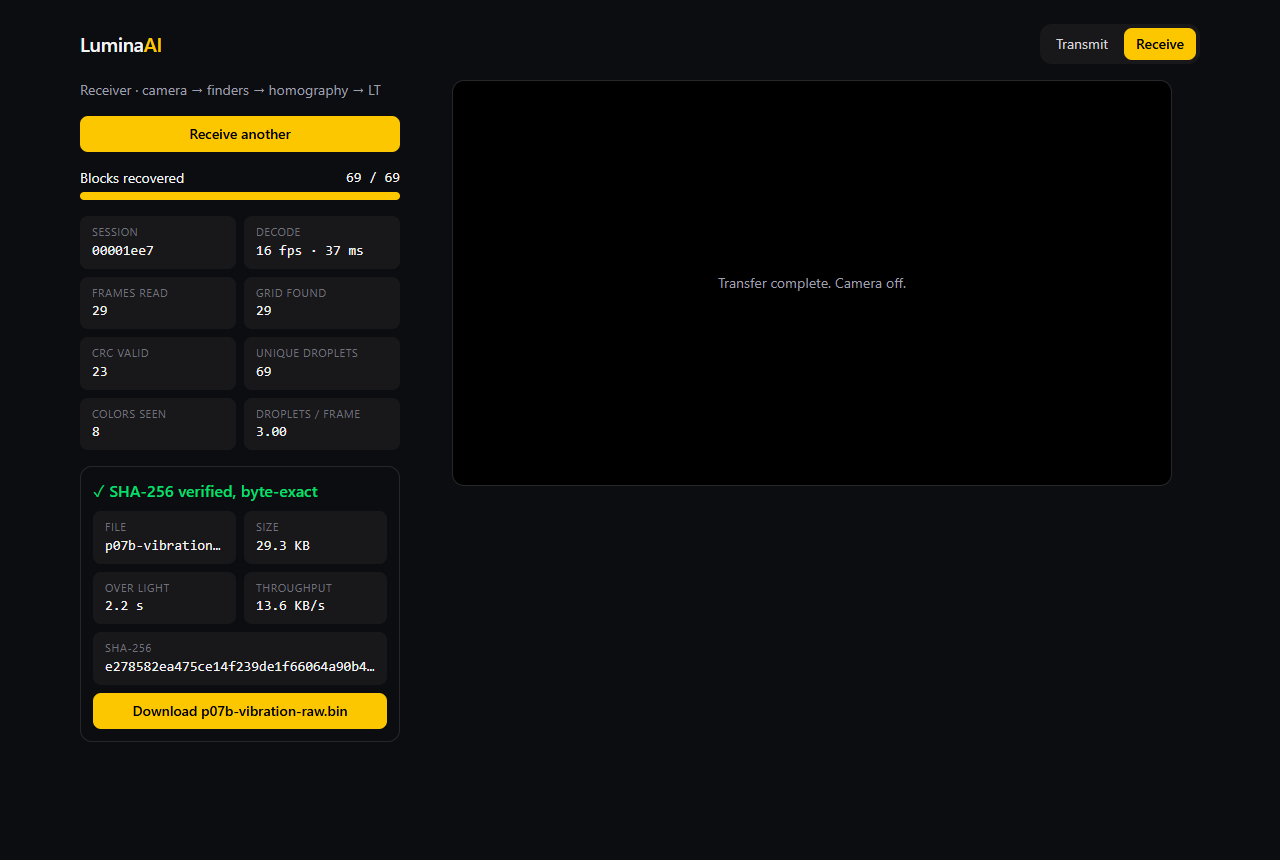
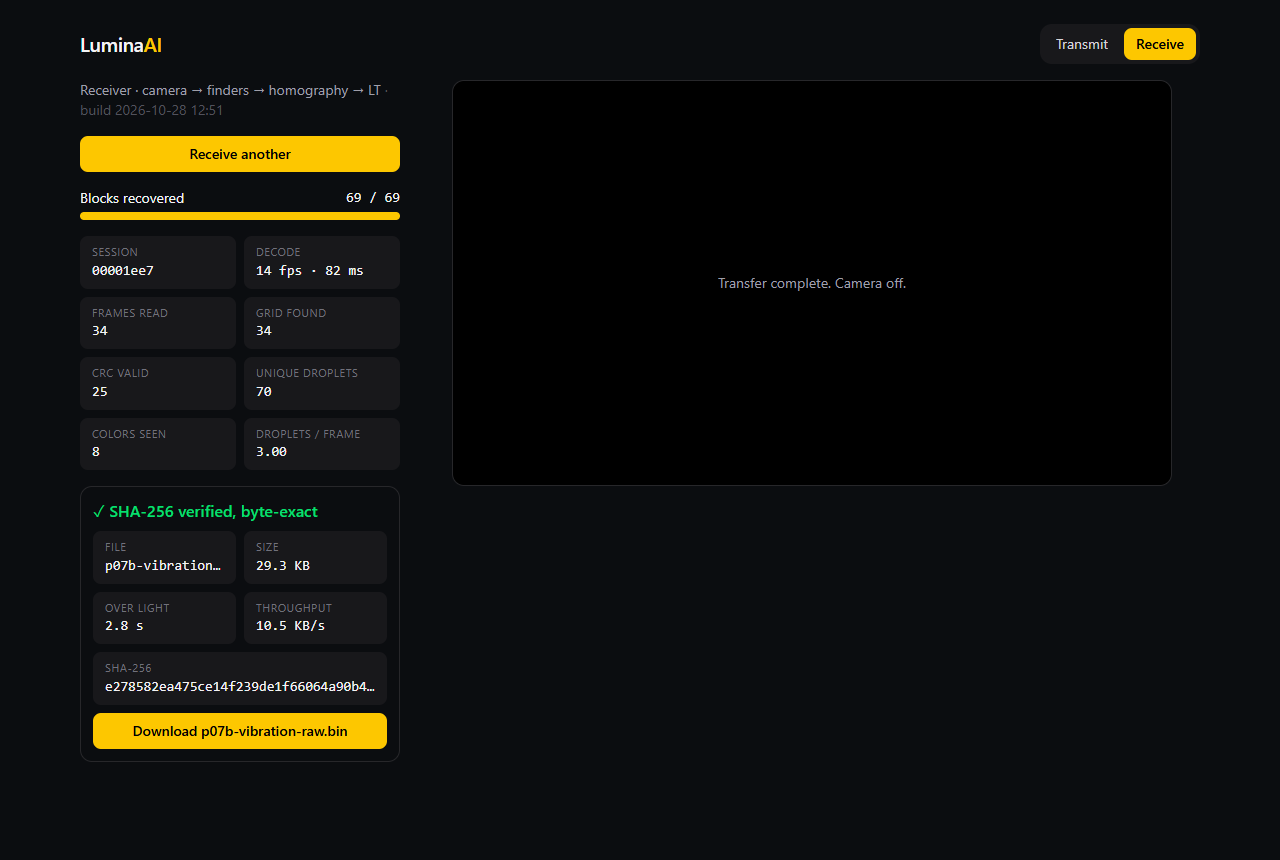
Receiver: surface stale-build and decoder errors instead of going silent
A page cached across a deploy points at a worker file Pages no longer serves,
and a throw in the worker left the page waiting forever. The worker now
always answers, worker load errors show a reload button, and both views
show a build id.

Changed region(s): [[0.0625, 0.1209, 0.3125, 0.514], [0.0625, 0.5442, 0.3125, 0.8767]]

diff --git a/apps/web/src/components/ReceiveView.tsx b/apps/web/src/components/ReceiveView.tsx
@@ -102,8 +102,17 @@ export function ReceiveView() {
           if (overlay.current) drawQuad(overlay.current, null, false);
           stop();
         } else {
+          busy = false;
           setError(msg.message);
         }
+      };
+      // A page left open across a deploy points at a worker file Pages no
+      // longer serves; without this the receiver just sits silent.
+      worker.onerror = (e) => {
+        e.preventDefault();
+        setError('STALE');
+        stop();
+        setPhase('idle');
       };
 
       const schedule = () =>
@@ -154,7 +163,9 @@ export function ReceiveView() {
   return (
     <div className="flex flex-col gap-6 lg:flex-row">
       <aside className="flex w-full flex-col gap-4 lg:w-80 lg:shrink-0">
-        <p className="text-sm text-zinc-400">Receiver · camera → finders → homography → LT</p>
+        <p className="text-sm text-zinc-400">
+          Receiver · camera → finders → homography → LT <span className="text-zinc-600">· build {__BUILD_ID__}</span>
+        </p>
 
         {!camera && (
           <p className="rounded-lg bg-red-950 p-3 text-sm text-red-300">
@@ -198,7 +209,16 @@ export function ReceiveView() {
           </select>
         )}
 
-        {error && <p className="text-sm text-red-400">{error}</p>}
+        {error === 'STALE' ? (
+          <div className="flex flex-col gap-2 rounded-lg bg-red-950 p-3 text-sm text-red-300" data-testid="rx-stale">
+            The receiver code failed to load: this page is probably an old cached version.
+            <button className="rounded-md bg-red-800 px-3 py-1.5 text-white" onClick={() => location.reload()}>
+              Reload to update
+            </button>
+          </div>
+        ) : (
+          error && <p className="text-sm text-red-400">{error}</p>
+        )}
 
         {stats && (
           <>

diff --git a/apps/web/src/lib/receiver.worker.ts b/apps/web/src/lib/receiver.worker.ts
@@ -21,7 +21,15 @@ ctx.onmessage = async ({ data: msg }) => {
     return;
   }
   const t0 = performance.now();
-  const { report, payload } = rx.push({ width: msg.width, height: msg.height, data: new Uint8ClampedArray(msg.buffer) });
+  let result: ReturnType<ReceiverSession['push']>;
+  try {
+    result = rx.push({ width: msg.width, height: msg.height, data: new Uint8ClampedArray(msg.buffer) });
+  } catch (e) {
+    // Always answer, or the page waits for this frame forever.
+    ctx.postMessage({ type: 'error', message: `Decoder error: ${e instanceof Error ? e.message : String(e)}` });
+    return;
+  }
+  const { report, payload } = result;
   ctx.postMessage({ type: 'frame', report, stats: rx.stats(), ms: Math.round(performance.now() - t0) });
   if (!payload) return;
   try {

diff --git a/apps/web/src/components/TransmitView.tsx b/apps/web/src/components/TransmitView.tsx
@@ -99,7 +99,7 @@ export function TransmitView() {
   return (
     <div className="flex flex-col gap-6 lg:flex-row">
       <aside className="flex w-full flex-col gap-4 lg:w-80 lg:shrink-0">
-        <p className="text-sm text-zinc-400">Transmitter · raw mode · {colors}-color</p>
+        <p className="text-sm text-zinc-400">Transmitter · raw mode · {colors}-color <span className="text-zinc-600">· build {__BUILD_ID__}</span></p>
 
         <label
           className="flex cursor-pointer flex-col items-center gap-1 rounded-xl border border-dashed border-zinc-700 px-4 py-6 text-center hover:border-yellow-400"

diff --git a/apps/web/vite.config.ts b/apps/web/vite.config.ts
@@ -10,6 +10,8 @@ export default defineConfig(({ mode }) => ({
   // GitHub Pages serves the app under /<repo>/; the deploy workflow sets BASE.
   base: process.env.BASE ?? '/',
   worker: { format: 'es' },
+  // Shown in the UI, so a tablet running a stale cached build is easy to spot.
+  define: { __BUILD_ID__: JSON.stringify(new Date().toISOString().slice(0, 16).replace('T', ' ')) },
   plugins: [
     mode === 'lan' && basicSsl(),
     react(),

diff --git a/apps/web/src/build-id.d.ts b/apps/web/src/build-id.d.ts
@@ -1,0 +1,1 @@
+declare const __BUILD_ID__: string;
